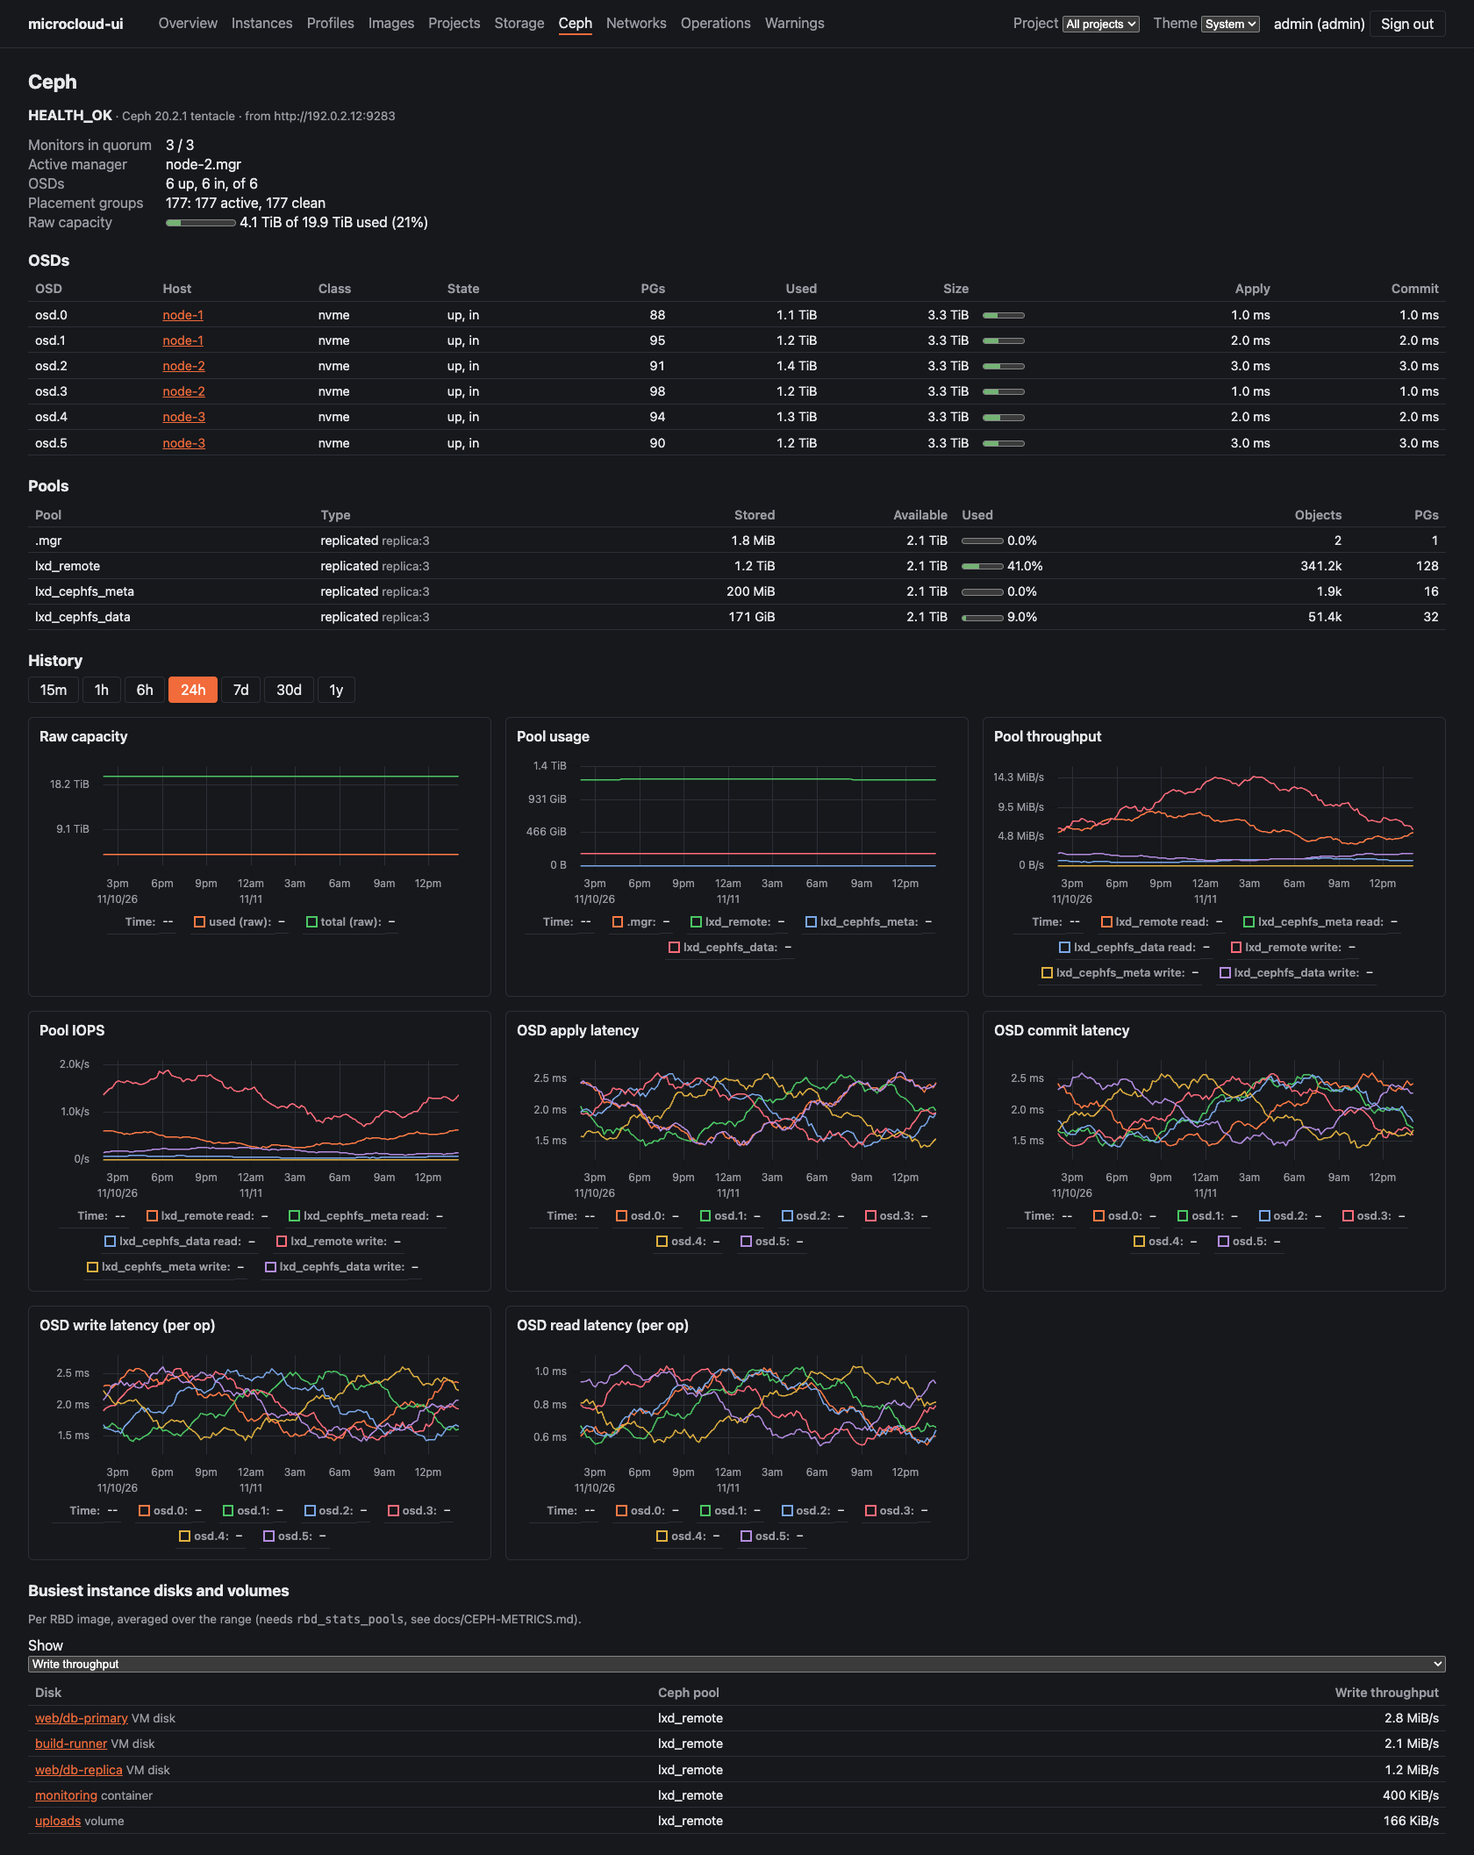
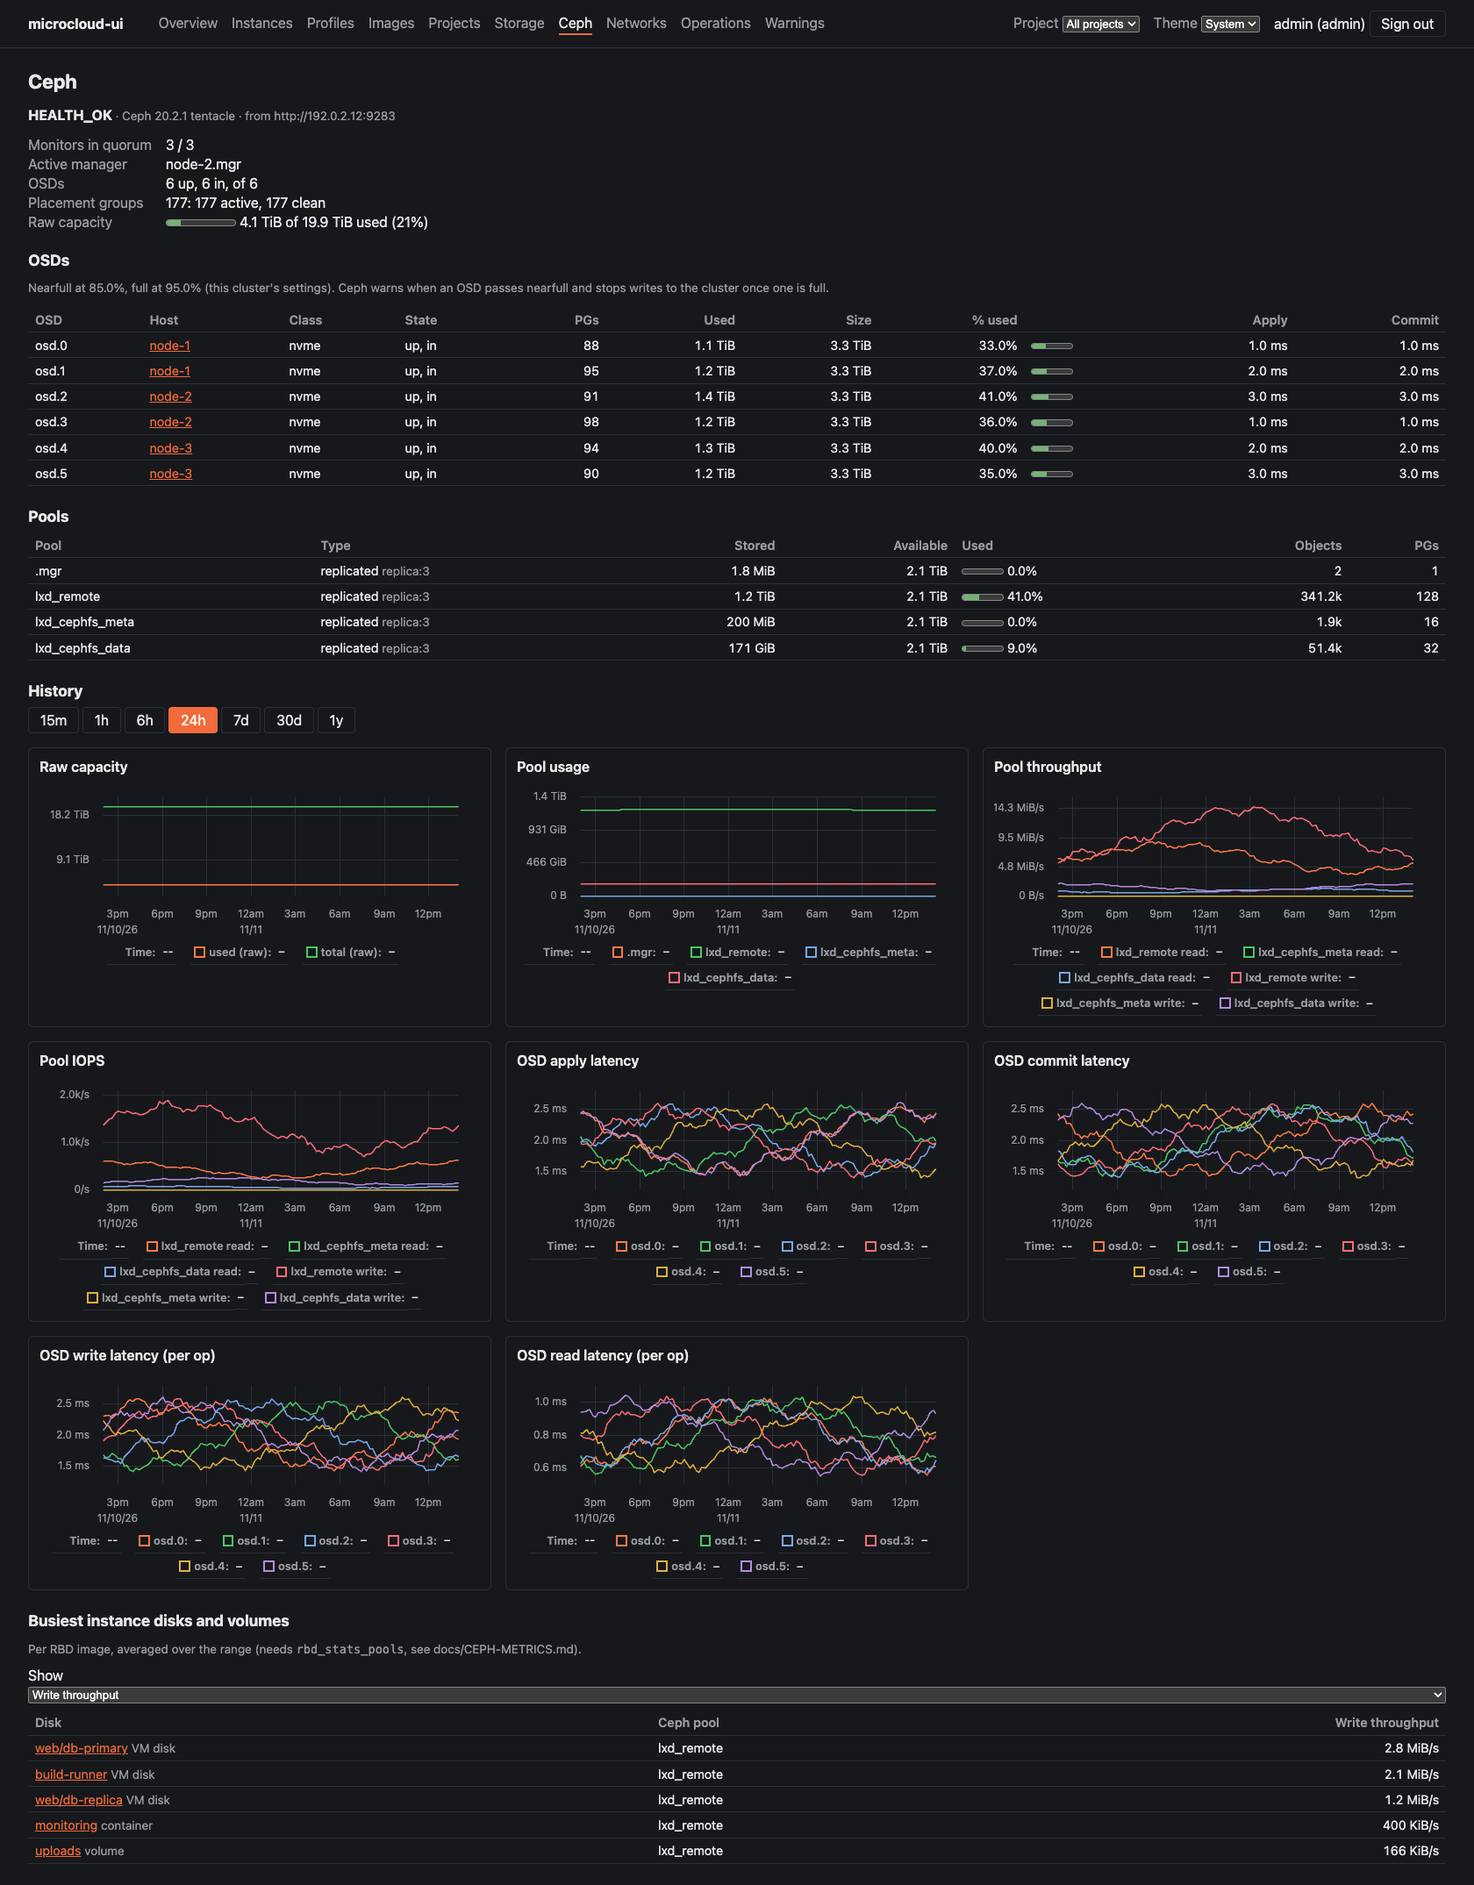
Ceph page: % used per OSD, flagged nearfull or full against the cluster's own ratios (from the mgr on Tentacle, Ceph's defaults on Squid), with the meter amber from nearfull and red from full (D79)

diff --git a/frontend/src/pages/CephPage.tsx b/frontend/src/pages/CephPage.tsx
@@ -3,7 +3,7 @@ import { Link } from "react-router";
 import { fetchCeph, fetchMembers, fetchRbdTop, type CephState, type RbdMetric, type RbdRow } from "../api";
 import MetricPanel from "../chart/MetricPanel";
 import { ratioSeries } from "../chart/panel";
-import { formatBytes, formatNumber, formatRate } from "../format";
+import { formatBytes, formatNumber, formatPercent, formatRate } from "../format";
 import { MemberLink } from "../links";
 import { instancePath } from "../paths";
 import { useRange } from "../range";
@@ -14,6 +14,20 @@ import { volumePath } from "./storage/paths";
 const perSecond = (v: number) => `${formatNumber(v)}/s`;
 const ms = (v: number) => `${v.toFixed(v < 10 ? 1 : 0)} ms`;
 const pct = (used: number, total: number) => (total ? (used / total) * 100 : 0);
+// Ceph's defaults, for a summary from before the backend reported the cluster's own
+const RATIOS = { nearfull: 0.85, full: 0.95, default: true };
+
+/** An OSD's % used, flagged once it passes the cluster's nearfull or full ratio. */
+function OsdUsed({ percent, nearfull, full }: { percent: number; nearfull: number; full: number }) {
+  const state = percent >= full * 100 ? "full" : percent >= nearfull * 100 ? "nearfull" : "";
+  return state ? (
+    <strong role="alert">
+      {formatPercent(percent)} {state}
+    </strong>
+  ) : (
+    <>{formatPercent(percent)}</>
+  );
+}
 const count = (v: number) => Math.round(v).toLocaleString("en");
 
 export default function CephPage() {
@@ -57,6 +71,7 @@ function Now({ s }: { s: CephState }) {
   const up = osds.filter((o) => o.up).length;
   const inn = osds.filter((o) => o.in).length;
   const cap = s.capacity ?? { total: null, used_raw: null };
+  const ratios = s.full_ratios ?? RATIOS;
   const states = Object.entries(s.pgs?.states ?? {});
   const health = s.health?.status ?? "UNKNOWN";
   return (
@@ -108,7 +123,15 @@ function Now({ s }: { s: CephState }) {
         </dl>
       </div>
       <h2>OSDs</h2>
-      {s.perf_counters === false && <PerfCountersHint />}
+      {s.perf_counters === false ? (
+        <PerfCountersHint />
+      ) : (
+        <p className="muted">
+          Nearfull at {formatPercent(ratios.nearfull * 100)}, full at {formatPercent(ratios.full * 100)} (
+          {ratios.default ? "Ceph's defaults; this Ceph doesn't report its own" : "this cluster's settings"}). Ceph warns
+          when an OSD passes nearfull and stops writes to the cluster once one is full.
+        </p>
+      )}
       <div className="scroll">
         <table>
           <thead>
@@ -122,6 +145,7 @@ function Now({ s }: { s: CephState }) {
                 <>
                   <th className="num">Used</th>
                   <th className="num">Size</th>
+                  <th className="num">% used</th>
                   <th />
                 </>
               )}
@@ -143,7 +167,23 @@ function Now({ s }: { s: CephState }) {
                   <>
                     <td className="num">{o.used != null ? formatBytes(o.used) : "–"}</td>
                     <td className="num">{o.size != null ? formatBytes(o.size) : "–"}</td>
-                    <td>{o.size ? <meter min={0} max={100} high={80} value={pct(o.used ?? 0, o.size)} aria-label={`osd.${o.id} used`} /> : null}</td>
+                    <td className="num">
+                      {o.size ? <OsdUsed percent={pct(o.used ?? 0, o.size)} nearfull={ratios.nearfull} full={ratios.full} /> : "–"}
+                    </td>
+                    <td>
+                      {o.size ? (
+                        // amber from nearfull, red from full
+                        <meter
+                          min={0}
+                          max={100}
+                          low={ratios.nearfull * 100}
+                          high={ratios.full * 100}
+                          optimum={0}
+                          value={pct(o.used ?? 0, o.size)}
+                          aria-label={`osd.${o.id} used`}
+                        />
+                      ) : null}
+                    </td>
                   </>
                 )}
                 <td className="num">{o.apply_latency_ms != null ? ms(o.apply_latency_ms) : "–"}</td>

diff --git a/frontend/src/pages/ceph.test.tsx b/frontend/src/pages/ceph.test.tsx
@@ -92,6 +92,10 @@ describe("CephPage", () => {
     expect(osd1).toHaveTextContent("up, in");
     expect(osd1).toHaveTextContent("2.0 ms");
     expect(osd1).toHaveTextContent("12 ms");
+    expect(osd1).toHaveTextContent("50.0%");
+    expect(within(osd1).queryByRole("alert")).toBeNull(); // below nearfull
+    // no ratios from this backend: Ceph's defaults, said so
+    expect(screen.getByText(/Nearfull at 85.0%, full at 95.0% \(Ceph's defaults/)).toBeInTheDocument();
     const osd2 = screen.getByText("osd.2").closest("tr")!;
     expect(osd2).toHaveTextContent("elsewhere");
     expect(within(osd2).getByRole("alert")).toHaveTextContent("down");
@@ -111,6 +115,27 @@ describe("CephPage", () => {
     const lat = plots.filter((p) => p.opts.series[1]?.label === "osd.1");
     expect(lat.map((p) => p.data[1])).toContainEqual([5]);
     expect(lat.map((p) => p.data[1])).toContainEqual([2]); // read: 0.1 / 50 s
+  });
+
+  it("flags OSDs past the cluster's nearfull and full ratios", async () => {
+    const osd = (id: number, used: number): api.CephOsd => ({ id, up: true, in: true, size: 100, used });
+    vi.spyOn(api, "fetchCeph").mockResolvedValue({
+      ...state,
+      // as Ceph Tentacle exports them, here lowered by the cluster's admin
+      full_ratios: { nearfull: 0.75, full: 0.9, default: false },
+      osds: [osd(1, 60), osd(2, 80), osd(3, 93)],
+    });
+    renderAt(<CephPage />);
+    expect(await screen.findByText(/Nearfull at 75.0%, full at 90.0% \(this cluster's settings\)/)).toBeInTheDocument();
+    const row = (id: number) => screen.getByText(`osd.${id}`).closest("tr")!;
+    expect(within(row(1)).queryByRole("alert")).toBeNull();
+    expect(within(row(2)).getByRole("alert")).toHaveTextContent("80.0% nearfull");
+    expect(within(row(3)).getByRole("alert")).toHaveTextContent("93.0% full");
+    // the meter: amber from nearfull, red from full
+    const meter = within(row(2)).getByRole("meter", { name: "osd.2 used" });
+    expect(meter).toHaveAttribute("low", "75");
+    expect(meter).toHaveAttribute("high", "90");
+    expect(meter).toHaveAttribute("optimum", "0");
   });
 
   it("hides OSD size and per-op latency when the mgr leaves out perf counters (Tentacle)", async () => {

diff --git a/frontend/src/api.ts b/frontend/src/api.ts
@@ -1111,6 +1111,8 @@ export interface CephState {
   osds?: CephOsd[];
   /** false: the mgr leaves out OSD perf counters (Ceph Tentacle's default) */
   perf_counters?: boolean;
+  /** when an OSD is nearly full / full (fractions); ``default``: Ceph's, as the mgr doesn't say */
+  full_ratios?: { nearfull: number; full: number; default: boolean };
   pgs?: { total: number; states: Record<string, number> };
   capacity?: { total: number | null; used_raw: number | null };
   pools?: CephPool[];

diff --git a/frontend/screenshots/demo.ts b/frontend/screenshots/demo.ts
@@ -491,6 +491,7 @@ export const CEPH: CephState = {
   scraped_at: NOW,
   health: { status: "HEALTH_OK", checks: [] },
   version: "20.2.1 tentacle",
+  full_ratios: { nearfull: 0.85, full: 0.95, default: false }, // Tentacle exports them
   mons: HOSTS.map((name) => ({ name, in_quorum: true })),
   mgrs: HOSTS.map((name, i) => ({ name: `${name}.mgr`, active: i === 1 })),
   osds: OSDS.map((id) => ({

diff --git a/backend/mcui/metrics/ceph_view.py b/backend/mcui/metrics/ceph_view.py
@@ -54,12 +54,30 @@ def summarize(exp: Exposition) -> dict[str, Any]:
         "mgrs": mgrs,
         "osds": _osds(exp),
         "perf_counters": _perf_counters(exp),
+        "full_ratios": _full_ratios(exp),
         "pgs": _pgs(exp),
         "capacity": {
             "total": _one(exp, "ceph_cluster_total_bytes"),
             "used_raw": _one(exp, "ceph_cluster_total_used_raw_bytes"),
         },
         "pools": _pools(exp),
+    }
+
+
+# Ceph's defaults (mon_osd_nearfull_ratio, mon_osd_full_ratio), for mgrs that don't export
+# the cluster's own: Squid doesn't, Tentacle does
+DEFAULT_NEARFULL, DEFAULT_FULL = 0.85, 0.95
+
+
+def _full_ratios(exp: Exposition) -> dict[str, Any]:
+    """When an OSD counts as nearly full and full (Ceph raises OSD_NEARFULL and stops
+    writes at OSD_FULL); ``default`` when the mgr doesn't say and Ceph's defaults apply."""
+    nearfull = _one(exp, "ceph_osd_nearfull_ratio")
+    full = _one(exp, "ceph_osd_full_ratio")
+    return {
+        "nearfull": round(nearfull, 4) if nearfull is not None else DEFAULT_NEARFULL,
+        "full": round(full, 4) if full is not None else DEFAULT_FULL,
+        "default": nearfull is None or full is None,
     }
 
 

diff --git a/backend/tests/test_ceph_view.py b/backend/tests/test_ceph_view.py
@@ -230,5 +230,23 @@ def test_perf_counters_on_real_scrapes(fixture, expected):
     assert all(("size" in o) is expected for o in s["osds"])
 
 
+@pytest.mark.parametrize(
+    ("fixture", "expected"),
+    [
+        # Tentacle exports the cluster's own ratios (0.85/0.95 as float32)
+        ("recorded-6.10-cluster/ceph_mgr.txt", {"nearfull": 0.85, "full": 0.95, "default": False}),
+        # Squid doesn't: Ceph's defaults, marked as such
+        ("recorded-5.21/ceph_mgr.txt", {"nearfull": 0.85, "full": 0.95, "default": True}),
+    ],
+)
+def test_full_ratios_on_real_scrapes(fixture, expected):
+    assert summarize(parse((RECORDED / fixture).read_text()))["full_ratios"] == expected
+
+
+def test_full_ratios_set_by_the_cluster():
+    exp = parse("ceph_osd_nearfull_ratio 0.75\nceph_osd_full_ratio 0.9\n")
+    assert summarize(exp)["full_ratios"] == {"nearfull": 0.75, "full": 0.9, "default": False}
+
+
 def test_perf_counters_without_osds():
     assert summarize(parse("ceph_health_status 0\n"))["perf_counters"] is True

diff --git a/agents.md b/agents.md
@@ -72,6 +72,7 @@ makes or alters a design decision.**
 | D57 | **OVN overview (MO-9) from the LXD API only:** `/api/ovn` lists OVN networks of `default` and of projects with `features.networks` (others borrow default's, which LXD reports again under their name), each with uplink, subnets/NAT, external router address (`volatile.network.ipv*.address`), active gateway chassis (from network state), forward/load-balancer/peer counts (`null` when LXD can't list them), ACLs and allocation counts by type; uplinks (managed physical) with gateway, routes, DNS, BGP peers and how many of `ipv4.ovn.ranges` router addresses are used. The page flags networks not Created, without a gateway chassis, and uplink ranges ≥ 80% used. No OVN northbound/southbound access (that's MO-11, Later) | Everything comes from LXD; no extra credentials or agents. | Accepted 2026-11-11 |
 | D58 | **Host metrics (MO-4, MO-12), brought forward from Phase 5:** an Overview **Hosts** table built from what LXD gives (member state: load, coarse memory, swap; instances: running/total, their CPU and memory use from live metrics; **allocated** vCPUs and memory of running instances from `limits.cpu` (count or pinned set) and `limits.memory` (size or % of host), VMs without limits counted at LXD's 1 vCPU/1 GiB, containers without limits counted as “unlimited”; host NIC rate from history), overlaid with **node_exporter** when a host has it (`/api/hosts`). The collector scrapes `<scheme>://<member host>:9100/metrics` with the LXD scrape (optional TLS with a pinned CA, `server_name`, basic auth from a 0600 password file) and stores only: CPU seconds **summed over CPUs per mode**, memory (total/available/free/cached/buffers/swap, ZFS ARC), filesystems except pseudo/snap mounts, whole host disks (not partitions, dm-*, md, rbd/nbd/zd, loop), pressure (cpu/memory/io waiting, memory/io stalled), oom-kill and swap-in/out counters, clock sync. A host with nothing listening is “not installed”, not an error; auth/TLS failures are errors in the job status and `mcui check` (warnings there, never a failure). CPU % = 100 − idle − iowait − steal (as for instances). Member page shows node graphs when present and LXD's memory estimate otherwise. Install/lock-down: `docs/HOST-METRICS.md` (TLS + basic auth via `--web.config.file`, bind to the management IP; no ufw or stock nftables.conf on MicroCloud hosts) | LXD has no host CPU %, disk or true memory figures; node_exporter is the standard way to get them and stays optional. | Accepted 2026-11-11 |
 | D59 | **Screenshots from an invented demo cluster:** `make screenshots` builds the SPA, serves it with `vite preview` and drives the installed Google Chrome (or `$CHROME_PATH`) through `playwright-core` 1.64.1 (Apache-2.0, dev only; no browser download). Every `/api/*` request is answered from `frontend/screenshots/demo.ts`: three hosts `node-1..3` on 192.0.2.0/24 and 2001:db8::/32, made-up instances/projects/pools/Ceph/OVN, and smooth deterministic metric history (fixed clock, UTC). The demo is typed against `src/api.ts`, and a test checks every metric the shown pages query has data, that unknown paths are refused and that only documentation/private addresses appear. Never screenshot a real cluster for the repo. **Amended 2026-11-13:** the demo runs MicroCloud 3.4 LTS (LXD 6.10.1 with the LXD 6 features, Ceph Tentacle, 26.04 images, a placement group, image registries, and an OVN load balancer with a health-checked pool), and two screenshots show 3.4-only pages (`placement-groups.png`, `load-balancers.png`). The README says 2.x looks the same without those parts | Shareable, reproducible images with nothing about the owner's network; regenerate whenever the UI changes. | Accepted 2026-11-11 |
+| D79 | **OSD % used against the cluster's own thresholds:** the Ceph page's OSD table shows % used per OSD. The meter turns amber at the nearfull ratio and red at the full ratio, and the figure is marked "nearfull" or "full" past them. The ratios come from the mgr's `ceph_osd_nearfull_ratio` and `ceph_osd_full_ratio` (Ceph Tentacle exports them). Squid doesn't, so Ceph's defaults (85%, 95%) apply, and a line above the table says which. Backfillfull isn't exported by either, so it isn't shown | Owner: see OSDs approaching NEARFULL before Ceph warns. The real ratios matter because admins change them. | Accepted 2026-11-13 |
 | D78 | **Bulk actions under one toast:** the Instances page's Start/Stop/Restart/Delete on a selection still make one call per instance, run together, but report as one toast ("Stop 5 instances: 3 of 5 done", then ✓ or the names that failed and why) through `runAll` in the actions provider; lists refresh as each one lands. LXD 6's bulk call (`PUT /1.0/instances`, `instance_bulk_state_change`) isn't used: it takes only `{"state": …}` and acts on every instance in the project, with no way to name instances | Owner chose this over a project-wide action (2026-11-13). Works the same on LXD 5.21 and 6.x. | Accepted 2026-11-13 |
 | D77 | **Ubuntu 22.04 dropped:** bundles for 26.04 (py3.14) and 24.04 (py3.12) only, four per release; CI tests 3.12 and 3.14; `requires-python >=3.12`, ruff and mypy target 3.12. The `tomli` backport and bundle.sh's per-Python extras go (a test now fails if a Python-version-limited dependency comes back, since `pip download` would miss it). Ruff's ASYNC109 is ignored: our `timeout` parameters are httpx request timeouts and LXD's operation-wait length, not asyncio deadlines. Supersedes D1's ">=3.10" and D72's six bundles. 22.04 hosts can still run the container image | Owner: 22.04's standard support ends April 2027 and the test cloud runs 26.04; nothing in the vulnerability scans was 22.04-specific. | Accepted 2026-11-13 |
 | D76 | **Watching for vulnerabilities:** Dependabot alerts and security updates are on (repository settings); `.github/dependabot.yml` asks for weekly grouped updates of npm, pip and Actions, minor and patch only (majors are planned upgrades; security updates still bring them). The image drops `pip` from its venv after installing (the scan flagged python3-venv's old copy). `make audit` (`pip-audit` on the backend's runtime dependencies, `npm audit --omit=dev --audit-level=high` on the frontend) runs in CI and so before every release. The weekly `security.yml` repeats the audits, adds build tools, and scans the published `:latest` image with Trivy (fixable HIGH/CRITICAL only); findings go to the Security tab and one `rebuild-needed` issue, which the next clean scan closes. A rebuild is a manual patch release, not automatic | Owner: keep up with CVEs in the dependencies and flag rebuilds. Python deps are minimum-pinned and the image is rebuilt from `ubuntu:26.04`, so a release picks up fixes; automatic releases would fire on every Ubuntu update. | Accepted 2026-11-13 |
@@ -241,7 +242,8 @@ Statuses: *Proposed* → *Accepted* once the owner confirms; *Superseded by Dn* 
   and the boot.mode fix. A first tag had to be deleted (the release commit failed a flaky test and
   the script tagged anyway; the version check stopped the run, nothing was published). `main` is
   now 0.1.5.dev0.
-- **Bulk actions under one toast 2026-11-13 (D78).**
+- **Bulk actions under one toast 2026-11-13 (D78)**; owner-tested on the edge build.
+- **OSD % used with nearfull/full thresholds 2026-11-13 (D79).**
 - **Frontend upgrades 2026-11-13:**
   - TypeScript 6.0, not 7: `typescript-eslint` supports TypeScript below 6.1 only. The app
     now targets ES2022.
